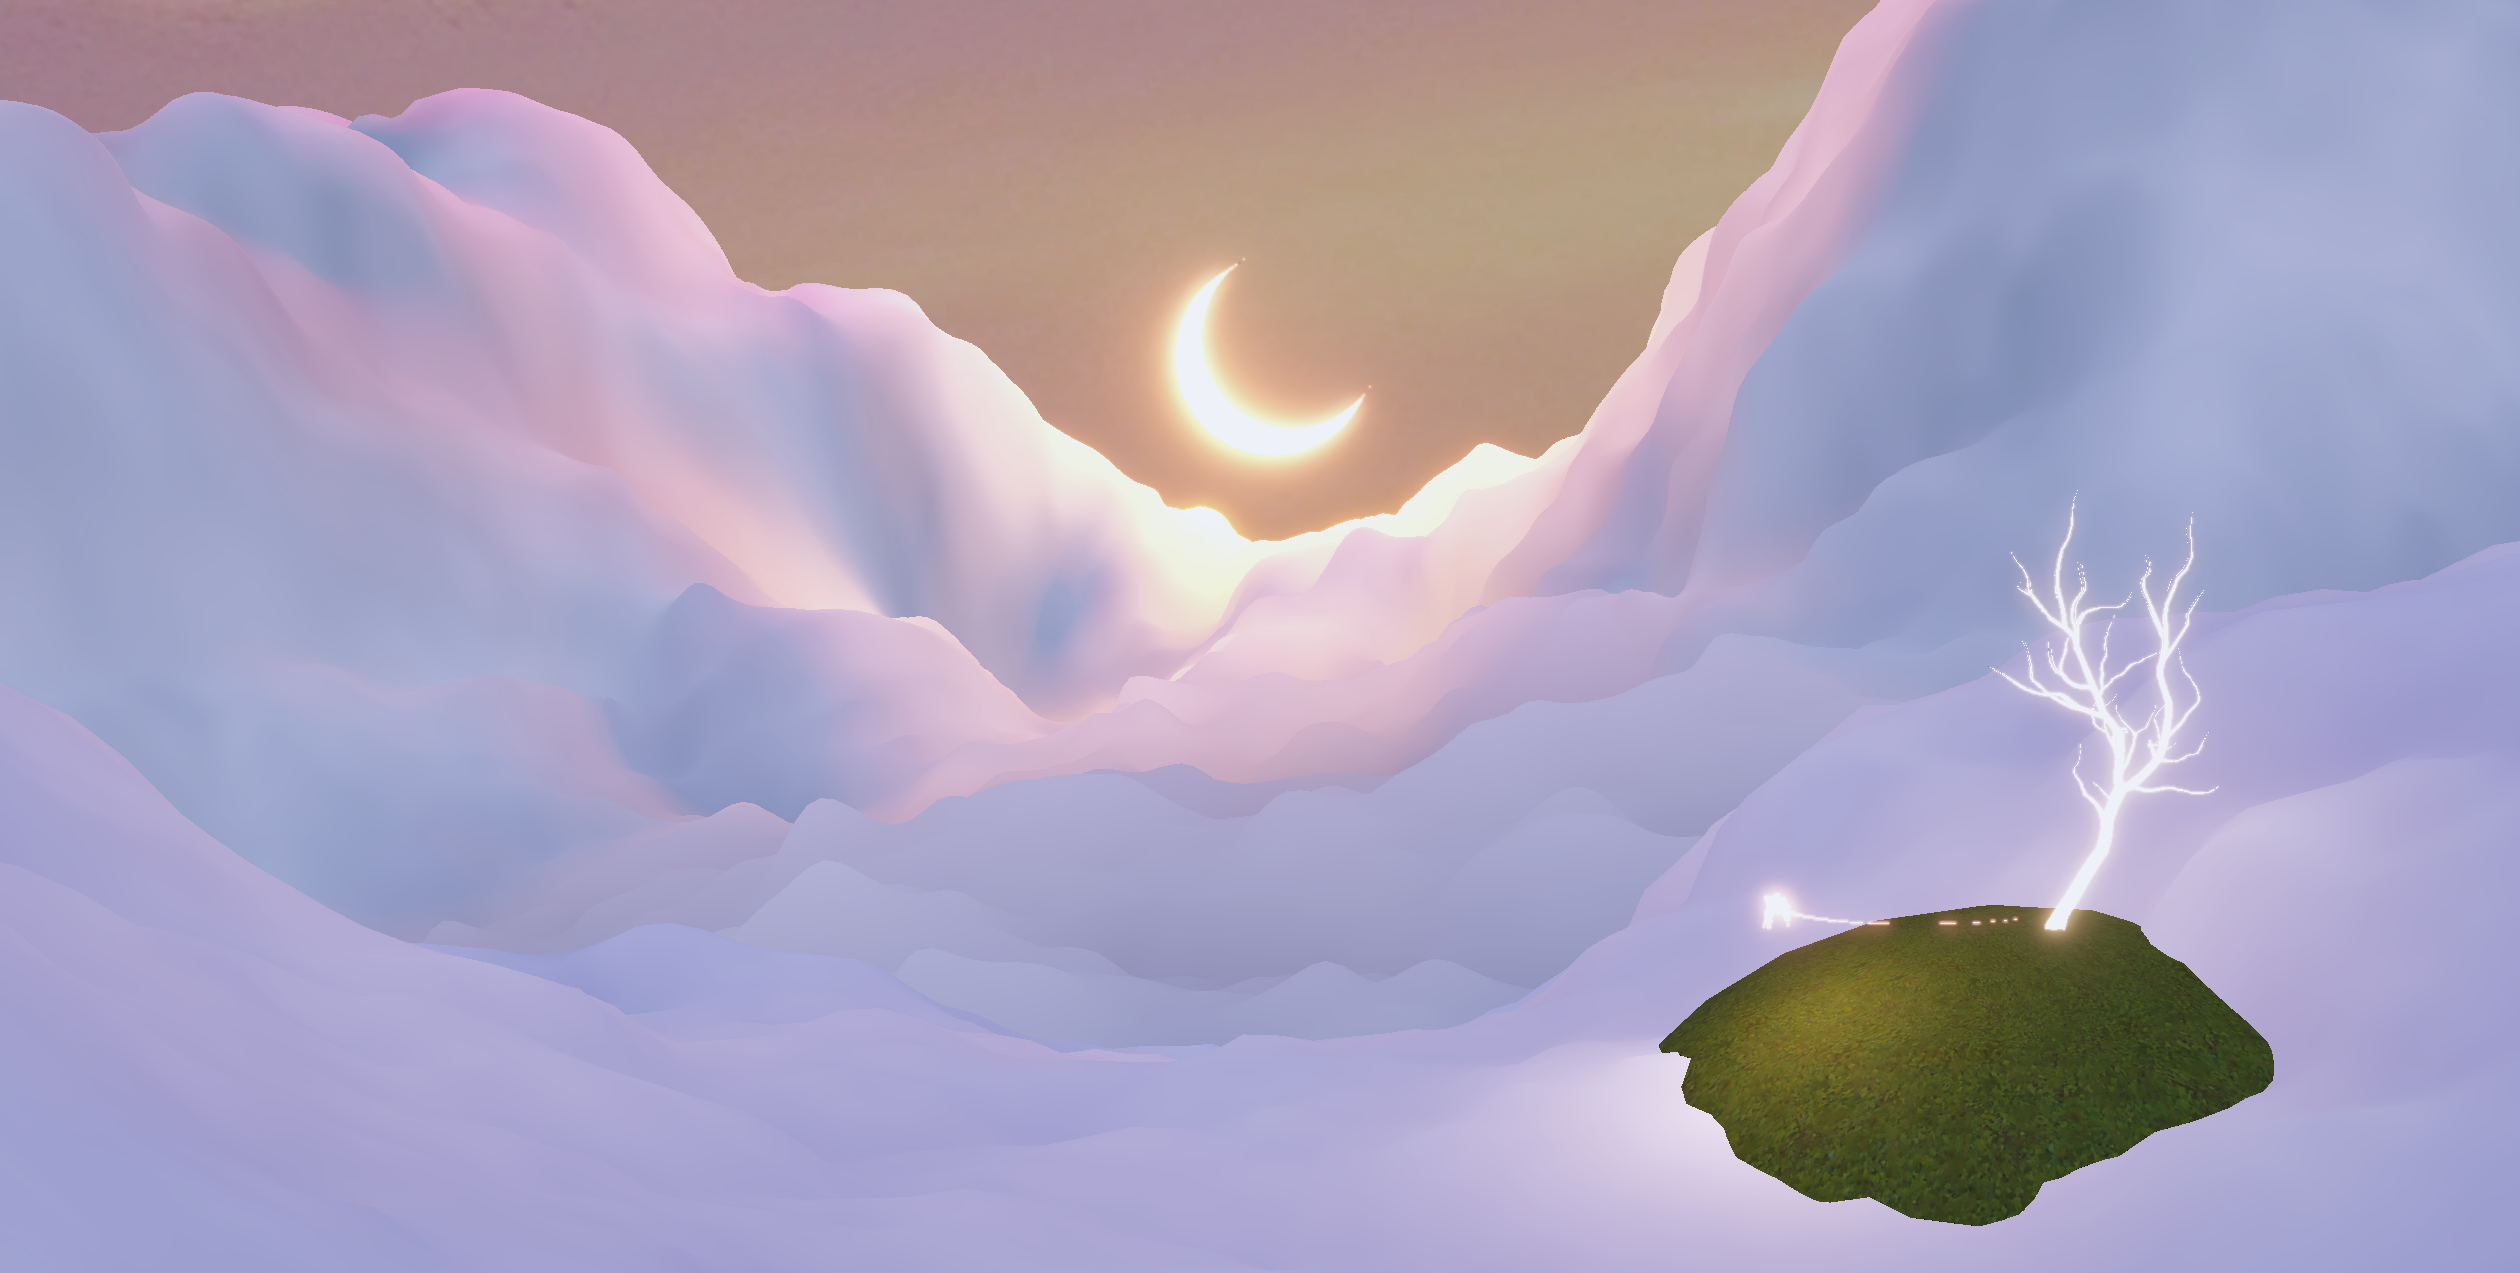
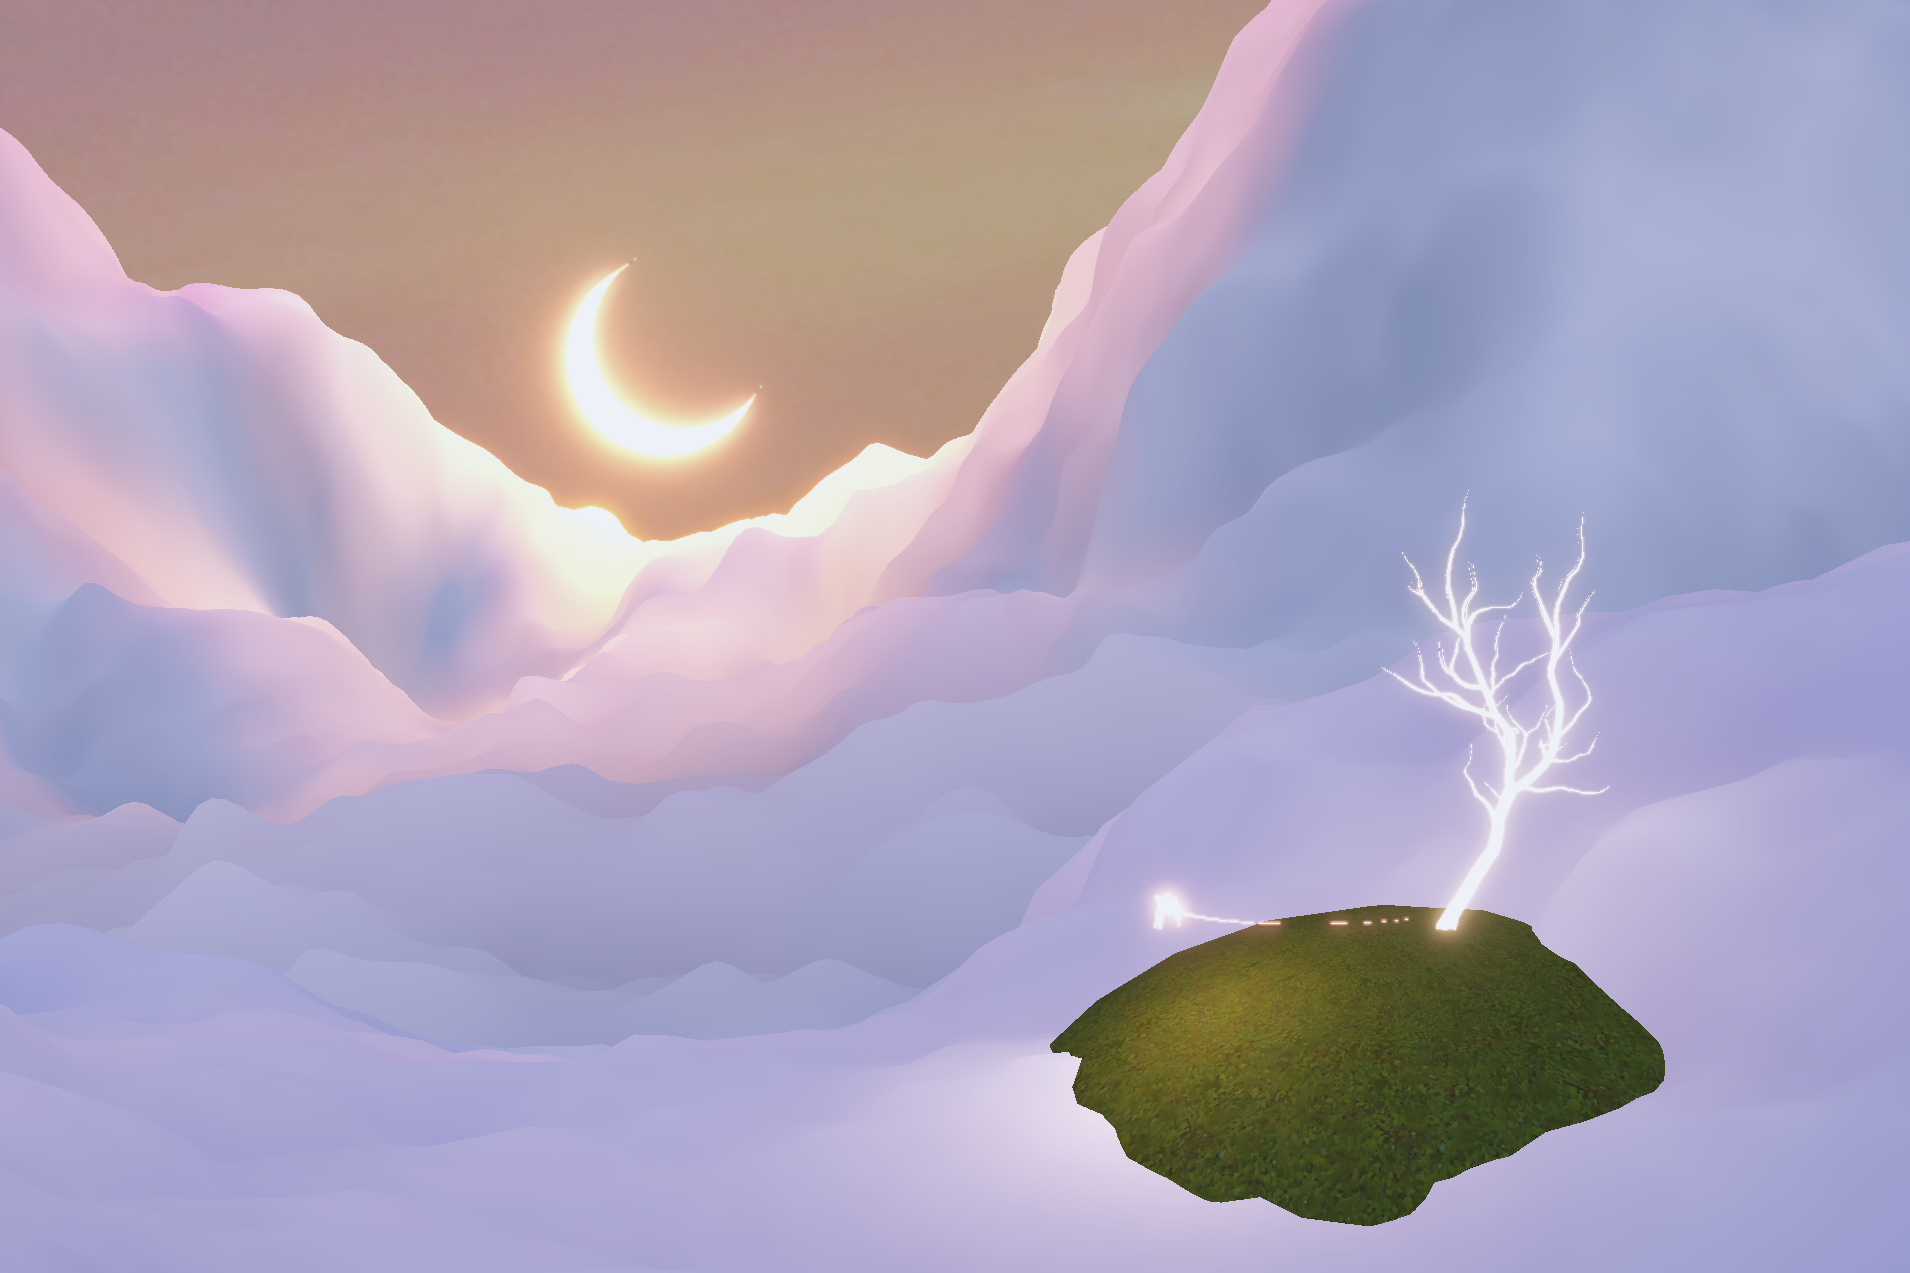
Modify

diff --git a/owllight.html b/owllight.html
@@ -33,8 +33,8 @@
 					<section id="main" class="wrapper">
 						<div class="inner">
 							<h1 class="major">Owllight</h1>
-							<p>Owllight is a rhythm game inspired by stories of nature, memory, and change, developed using Unity, Blender, C#, and Python.</p>
-							<span class="image fit"><img src="images/owllight_cover.png" alt="" /></span>
+							<p>Owllight is a rhythm game inspired by stories of nature, memory, and change. Soar through the clouds alongside an owl, chasing the echoes of the past and the dreams of the earth. It was developed using Unity, Blender, C#, and Python.</p>
+							<span class="image fit"><img src="images/owllight_title.png" alt="" /></span>
 							<span class="image fit"><img src="images/owllight1.png" alt="" /></span>
 							<video controls width="1080">
 								<source src="video/Owllight.mp4" type="video/mp4">
